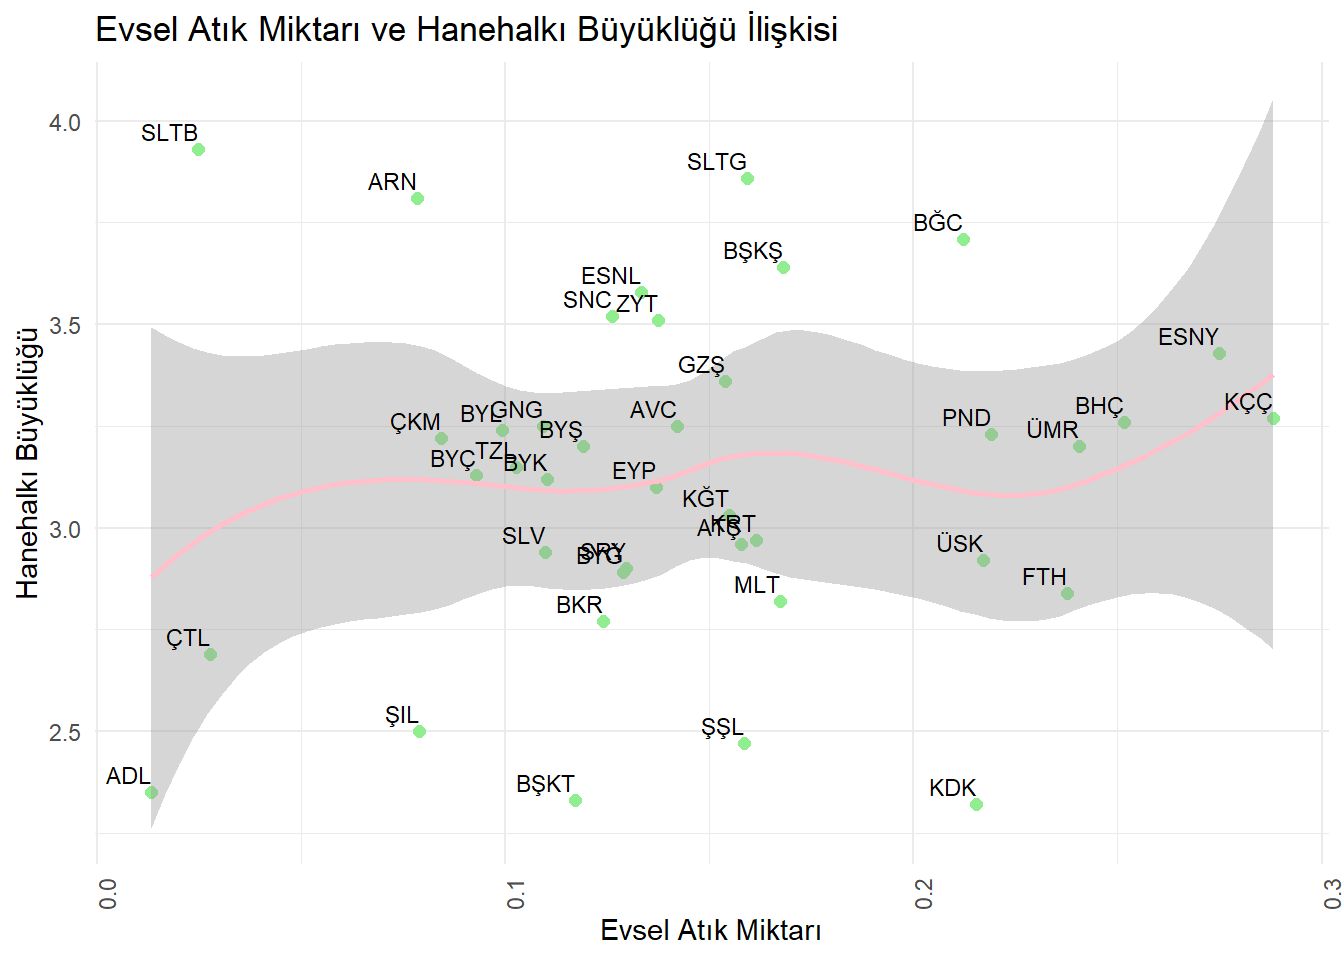
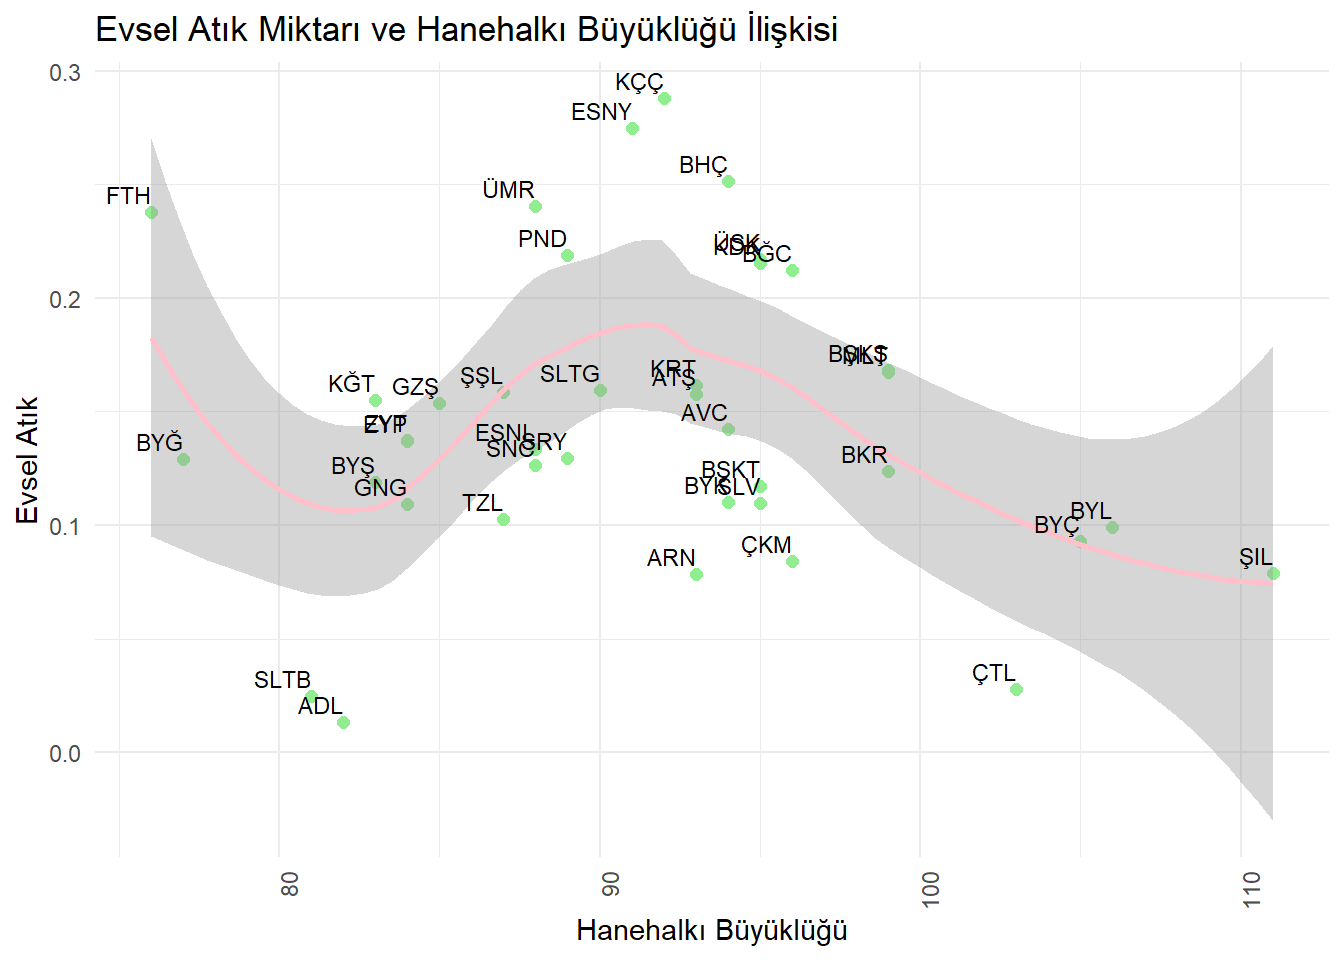
sona doğru
sona doğru

diff --git a/docs/proje.html b/docs/proje.html
@@ -633,7 +633,7 @@ pre > code.sourceCode > span > a:first-child::before { text-decoration: underlin
 <p><img src="proje_files/figure-html/unnamed-chunk-5-1.png" class="img-fluid" width="672"></p>
 </div>
 </div>
-<p>Korelasyon matrisi,değişkenler arasındaki ilişkileri inceleme, özellik seçimi ve çoklu doğrusal bağlantının etkilerini incelemek için faydalı bir araçtır.</p>
+<p>Korelasyon matrisi,değişkenler arasındaki ilişkileri inceleme, özellik seçimi ve çoklu doğrusal bağlantının etkilerini incelemek için faydalı bir araçtır. Örneğin, su tüketimi ile evsel atık miktarı arasında yüksek bir pozitif korelasyon bulunmuştur(korelasyon katsayısı 0.8). Doğalgaz tüketimi ile evsel atık miktarı arasında ise daha düşük bir korelasyon gözlemlenmiştir (korelasyon katsayısı 0.6). Bu durum, su tüketiminin artmasıyla evsel atık miktarının arttığını, ancak doğalgaz tüketimi ile evsel atık miktarı arasındaki ilişkinin daha zayıf olduğunu göstermektedir.</p>
 <p>Evsel atık miktarı, su ve doğalgaz tüketimi ile diğer verilerin ilişkilerini yorumlamak için, bu üç parametre ile diğer parametreler arasındaki ilişki ilçelere göre görsel hale getirilmiştir.</p>
 <p>Öncelikle, okuma yazma oranı ile atık ve tüketimler arasındaki ilişki gözlemlenmektedir. Oranlar %99 civarında kümelendiği için veri normalize edilerek kullanılmıştır.</p>
 <div class="cell">
@@ -1098,12 +1098,12 @@ pre > code.sourceCode > span > a:first-child::before { text-decoration: underlin
 <summary>Code</summary>
 <div class="sourceCode cell-code" id="cb35"><pre class="sourceCode r code-with-copy"><code class="sourceCode r"><span id="cb35-1"><a href="#cb35-1" aria-hidden="true" tabindex="-1"></a><span class="co"># Evsel Atık ve Hanehalkı Büyüklüğü</span></span>
 <span id="cb35-2"><a href="#cb35-2" aria-hidden="true" tabindex="-1"></a></span>
-<span id="cb35-3"><a href="#cb35-3" aria-hidden="true" tabindex="-1"></a>model <span class="ot">&lt;-</span> <span class="fu">lm</span>(evsel_atık_ortalaması <span class="sc">~</span> hanehalki_buyuklugu, <span class="at">data =</span> proje_data)</span>
+<span id="cb35-3"><a href="#cb35-3" aria-hidden="true" tabindex="-1"></a>model <span class="ot">&lt;-</span> <span class="fu">lm</span>(hane_buyuklugu <span class="sc">~</span> evsel_atık_ortalaması, <span class="at">data =</span> proje_data)</span>
 <span id="cb35-4"><a href="#cb35-4" aria-hidden="true" tabindex="-1"></a></span>
-<span id="cb35-5"><a href="#cb35-5" aria-hidden="true" tabindex="-1"></a><span class="fu">ggplot</span>(proje_data, <span class="fu">aes</span>(<span class="at">x =</span> evsel_atık_ortalaması<span class="sc">/</span><span class="dv">10</span><span class="sc">^</span><span class="dv">6</span>, <span class="at">y =</span> hanehalki_buyuklugu)) <span class="sc">+</span></span>
+<span id="cb35-5"><a href="#cb35-5" aria-hidden="true" tabindex="-1"></a><span class="fu">ggplot</span>(proje_data, <span class="fu">aes</span>(<span class="at">x =</span> hane_buyuklugu, <span class="at">y =</span> evsel_atık_ortalaması<span class="sc">/</span><span class="dv">10</span><span class="sc">^</span><span class="dv">6</span>)) <span class="sc">+</span></span>
 <span id="cb35-6"><a href="#cb35-6" aria-hidden="true" tabindex="-1"></a>  <span class="fu">geom_point</span>(<span class="at">color =</span> <span class="st">"lightgreen"</span>, <span class="at">size =</span> <span class="dv">2</span>) <span class="sc">+</span></span>
 <span id="cb35-7"><a href="#cb35-7" aria-hidden="true" tabindex="-1"></a>  <span class="fu">geom_smooth</span>(<span class="at">method =</span> <span class="st">"auto"</span>, <span class="at">se =</span> <span class="cn">TRUE</span>, <span class="at">color =</span> <span class="st">"pink"</span>) <span class="sc">+</span></span>
-<span id="cb35-8"><a href="#cb35-8" aria-hidden="true" tabindex="-1"></a>  <span class="fu">labs</span>(<span class="at">title =</span> <span class="st">"Evsel Atık Miktarı ve Hanehalkı Büyüklüğü İlişkisi"</span>, <span class="at">x =</span> <span class="st">"Evsel Atık Miktarı"</span>, <span class="at">y =</span> <span class="st">"Hanehalkı Büyüklüğü"</span>) <span class="sc">+</span></span>
+<span id="cb35-8"><a href="#cb35-8" aria-hidden="true" tabindex="-1"></a>  <span class="fu">labs</span>(<span class="at">title =</span> <span class="st">"Evsel Atık Miktarı ve Hanehalkı Büyüklüğü İlişkisi"</span>, <span class="at">x =</span> <span class="st">"Hanehalkı Büyüklüğü"</span>, <span class="at">y =</span> <span class="st">"Evsel Atık"</span>) <span class="sc">+</span></span>
 <span id="cb35-9"><a href="#cb35-9" aria-hidden="true" tabindex="-1"></a>  <span class="fu">theme_minimal</span>() <span class="sc">+</span></span>
 <span id="cb35-10"><a href="#cb35-10" aria-hidden="true" tabindex="-1"></a>  <span class="fu">theme</span>(<span class="at">axis.text.x =</span> <span class="fu">element_text</span>(<span class="at">angle =</span> <span class="dv">90</span>, <span class="at">hjust =</span> <span class="dv">1</span>))<span class="sc">+</span> <span class="fu">geom_text</span>(<span class="fu">aes</span>(<span class="at">label =</span> ilçe_kısaltma), <span class="at">vjust =</span> <span class="sc">-</span><span class="fl">0.5</span>, <span class="at">hjust =</span> <span class="dv">1</span>, <span class="at">size =</span> <span class="dv">3</span>, <span class="at">color =</span> <span class="st">"black"</span>)</span></code><button title="Copy to Clipboard" class="code-copy-button"><i class="bi"></i></button></pre></div>
 </details>
